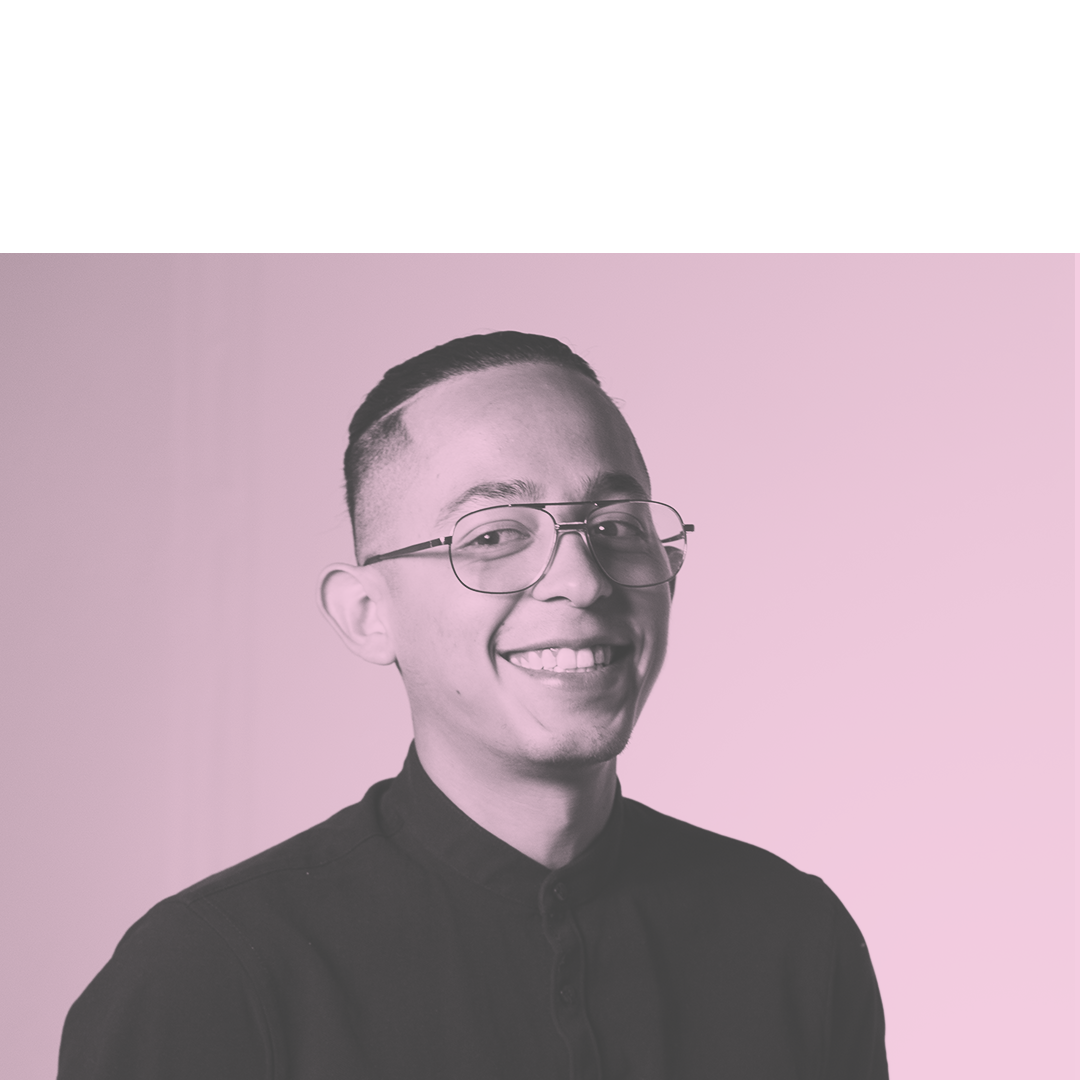
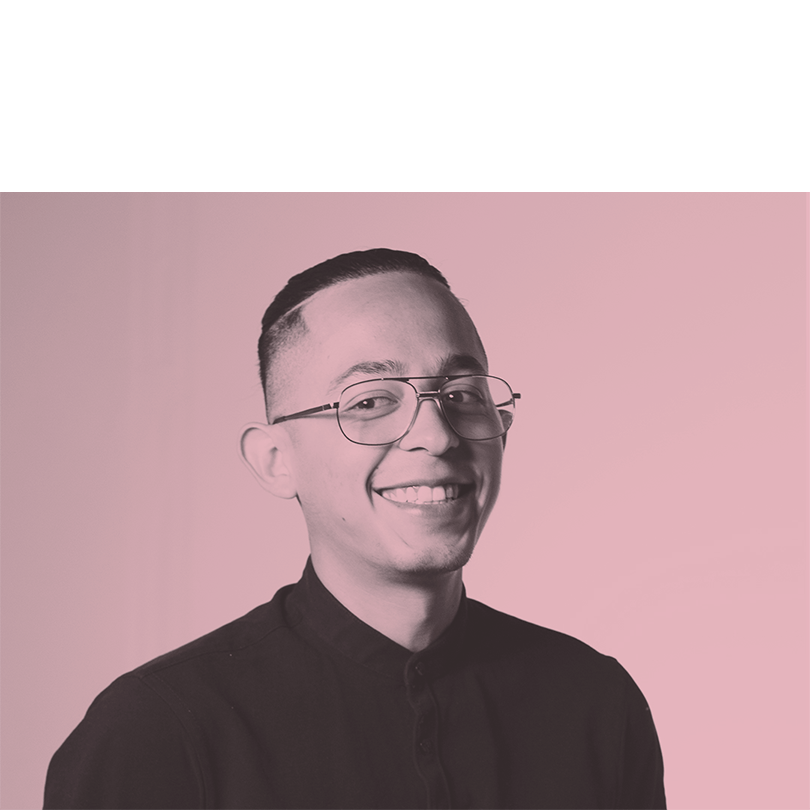
changing the new branding color

diff --git a/css/work.css b/css/work.css
@@ -16,8 +16,7 @@ body {
   border: none;
   width: 12px;
   height: 12px;
-  /*background: linear-gradient(to left, white, #f3cde2);*/
-  background: #f3cde2;
+  background: #fac8d2;
   cursor: pointer;
   position: absolute;
   bottom: 34px;
@@ -52,7 +51,7 @@ body {
 }
 
 .anim:hover {
-  color: #f3cde2;
+  color: #fac8d2;
   transition-duration: .1s;
   transition-timing-function: ease-in-out;
   font-weight: 500;
@@ -60,7 +59,7 @@ body {
 }
 
 .anim2:hover {
-  color: #f3cde2;
+  color: #fac8d2;
   transition-duration: .1s;
   transition-timing-function: ease-in-out;
   font-weight: 500;
@@ -76,17 +75,41 @@ body {
 
 .portafolio {
   display: flex;
-  width: 805px;
+  width: 821px;
   height: 1250px;
   flex-direction: column;
   flex-wrap: wrap;
   justify-content: flex-start;
   align-items: center;
-  /*margin-top: 40px;*/
+}
+
+.titlePorta {
+  width: 821px;
+  margin: auto;
+  margin-top: -30px;
+  font-size: 30px;
+  color: gray;
+}
+
+.titlePorta h3 {
+  font-weight: 300;
+}
+
+.titlePorta span {
+  color: #fac8d2;
+  font-weight: 700;
+}
+
+.titlePorta p {
+  font-weight: 300;
+  font-size: 13px;
+  margin-top: -30px;
+  margin-bottom: 40px;
 }
 
 .previews {
   margin-right: 4px;
+  margin-bottom: 5px;
 }
 
 .previews:hover {
@@ -145,13 +168,13 @@ body {
 }
 
 .line {
-  border-bottom: 2px solid #f3cde2;
+  border-bottom: 2px solid #fac8d2;
   margin:auto;
   width: 821px;
 }
 
 .line2 {
-  border-bottom: 2px solid #f3cde2;
+  border-bottom: 2px solid #fac8d2;
   margin: auto;
   width: 821px;
   margin-bottom: 100px;
@@ -180,7 +203,8 @@ body {
 }
 
 .footer span {
-  color: #f3cde2;
+  color: #fac8d2;
+  font-weight: 700;
 }
 
 .footer a {

diff --git a/css/main.css b/css/main.css
@@ -16,8 +16,8 @@ body {
   border: none;
   width: 12px;
   height: 12px;
-  /*background: linear-gradient(to left, white, #f3cde2);*/
-  background: #f3cde2;
+  /*background: linear-gradient(to left, white, #fac8d2);*/
+  background: #fac8d2;
   cursor: pointer;
   position: absolute;
   bottom: 34px;
@@ -52,7 +52,7 @@ body {
 }
 
 .anim:hover {
-  color: #f3cde2;
+  color: #fac8d2;
   transition-duration: .1s;
   transition-timing-function: ease-in-out;
   font-weight: 500;
@@ -60,7 +60,7 @@ body {
 }
 
 .anim2:hover {
-  color: #f3cde2;
+  color: #fac8d2;
   transition-duration: .1s;
   transition-timing-function: ease-in-out;
   font-weight: 500;
@@ -159,13 +159,13 @@ body {
 }
 
 .line {
-  border-bottom: 2px solid #f3cde2;
+  border-bottom: 2px solid #fac8d2;
   margin:auto;
   width: 821px;
 }
 
 .line2 {
-  border-bottom: 2px solid #f3cde2;
+  border-bottom: 2px solid #fac8d2;
   margin: auto;
   width: 821px;
   margin-bottom: 100px;
@@ -186,7 +186,7 @@ body {
   font-weight: 400;
   font-size: 24px;
   text-decoration: none;
-  color: #f3cde2;
+  color: #fac8d2;
 }
 .footer {
   width: 821px;
@@ -209,7 +209,8 @@ body {
 }
 
 .footer span {
-  color: #f3cde2;
+  color: #fac8d2;
+  font-weight: 700;
 }
 
 .footer a {

diff --git a/work.html b/work.html
@@ -52,8 +52,14 @@
             <img/>
        </div>
     </section>
-       
+     <div class="titlePorta">
+       <h3>selected crap <span>~</span></h3>
+       <p>advanced logos, posters, prints and sort of <br> animations curated by my iluminated mind. <br>
+       peace dawgs.
+       </p>
+     </div>  
     <section id="portafolio" class="portafolio contenedor"> <!--portafolio destacado-->
+     
       <article class="previews transicion">
         <a href="portafolio-1.html">
         <h3>chiringuito</h3>
